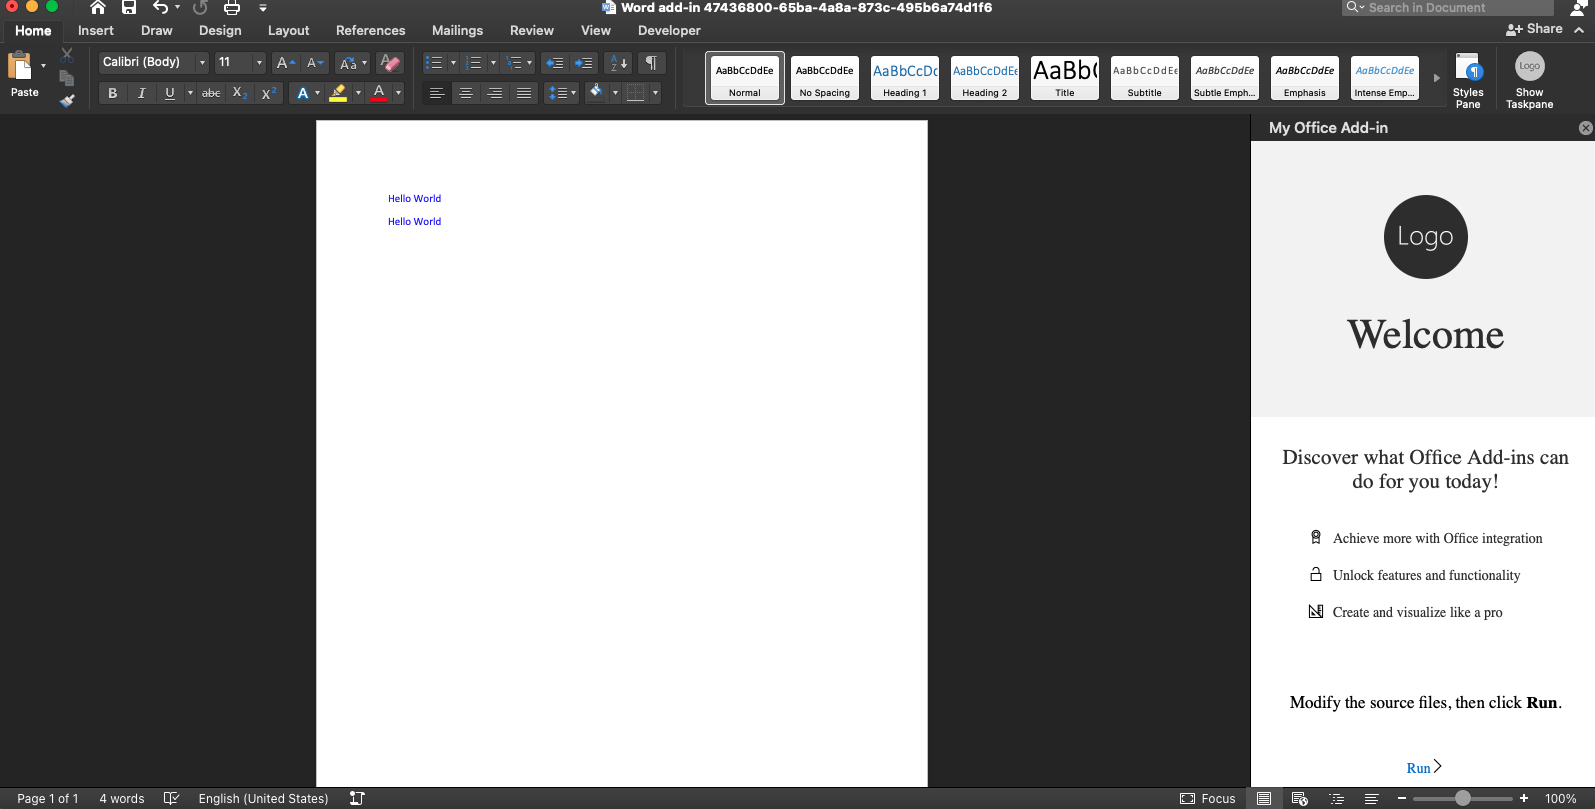
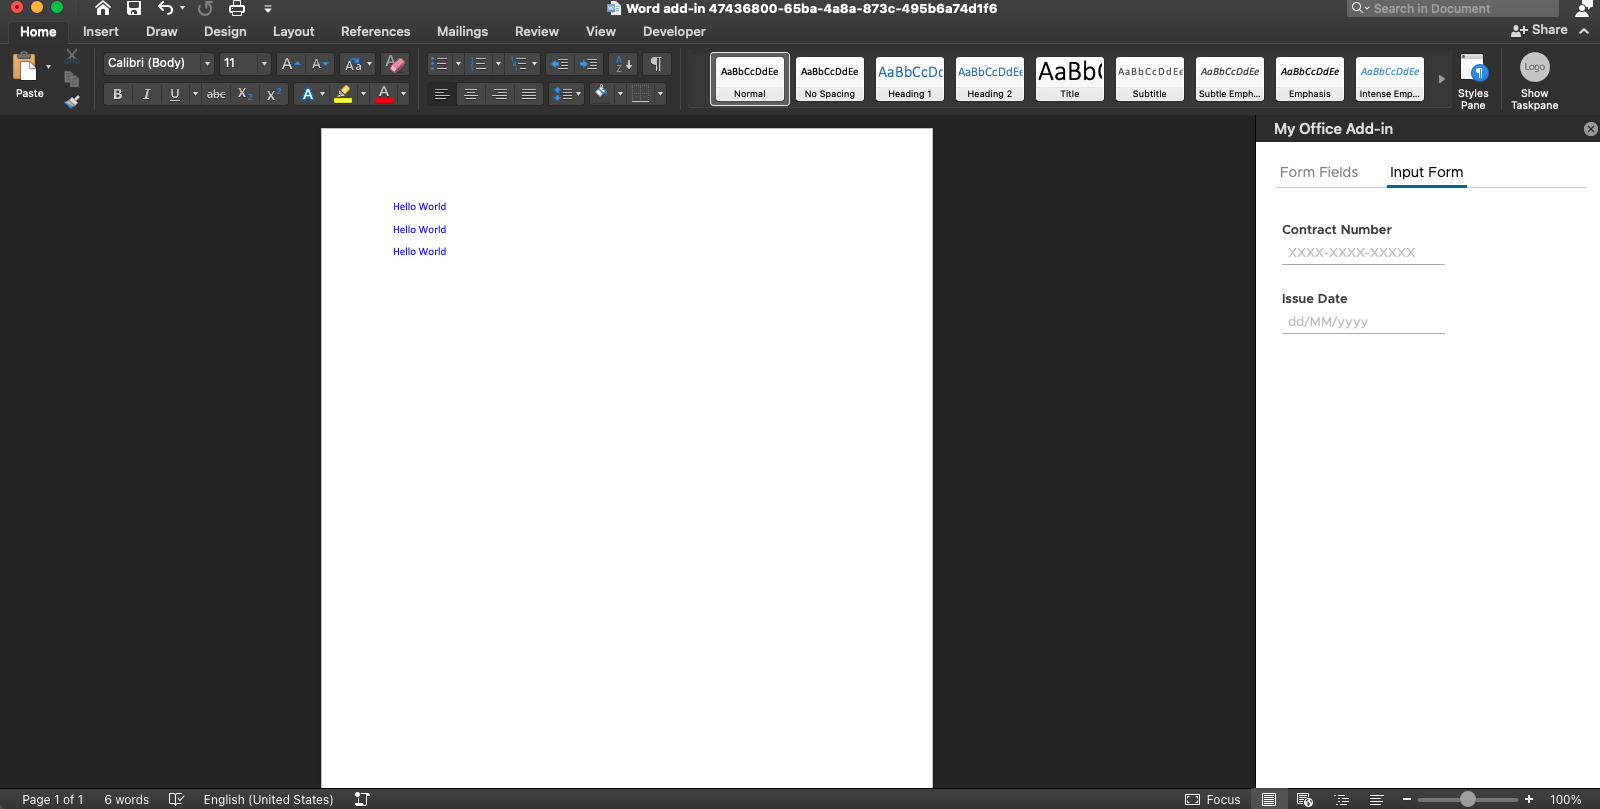
Added tab view and form fields

diff --git a/src/taskpane/app/app.component.html b/src/taskpane/app/app.component.html
@@ -1,32 +1,35 @@
 
 <main class="ms-welcome__main">
-    <clr-alert [clrAlertAppLevel]="true">
-        <clr-alert-item>
-          <span class="alert-text">
-            Congratulations, you have installed Clarity!
-          </span>
-        </clr-alert-item>
-      </clr-alert>
-    <h2 class="ms-font-xl ms-fontWeight-semilight ms-fontColor-neutralPrimary ms-u-slideUpIn20"> Discover what Office Add-ins can do for you today! </h2>
-    <ul class="ms-List ms-welcome__features ms-u-slideUpIn10">
-        <li class="ms-ListItem">
-            <i class="ms-Icon ms-Icon--Ribbon"></i>
-            <span class="ms-font-m ms-fontColor-neutralPrimary">Achieve more with Office integration</span>
-        </li>
-        <li class="ms-ListItem">
-            <i class="ms-Icon ms-Icon--Unlock"></i>
-            <span class="ms-font-m ms-fontColor-neutralPrimary">Unlock features and functionality</span>
-        </li>
-        <li class="ms-ListItem">
-            <i class="ms-Icon ms-Icon--Design"></i>
-            <span class="ms-font-m ms-fontColor-neutralPrimary">Create and visualize like a pro</span>
-        </li>
-    </ul>
-    <br />
-    <br />
-    <p class="ms-font-l">Modify the source files, then click <b>Run</b>.</p>
-    <div role="button" class="ms-welcome__action ms-Button ms-Button--hero ms-u-slideUpIn20" (click)="run()">
-        <span class="ms-Button-label">Run</span>
-        <span class="ms-Button-icon"><i class="ms-Icon ms-Icon--ChevronRight"></i></span>
-    </div>
+    <clr-tabs>
+        <clr-tab>
+          <button clrTabLink>Form Fields</button>
+          <clr-tab-content *clrIfActive>
+
+            <p class="ms-font-l">Modify the source files, then click <b>Run</b>.</p>
+            <div role="button" class="ms-welcome__action ms-Button ms-Button--hero ms-u-slideUpIn20" (click)="run()">
+                <span class="ms-Button-label">Run</span>
+                <span class="ms-Button-icon"><i class="ms-Icon ms-Icon--ChevronRight"></i></span>
+            </div>
+
+          </clr-tab-content>
+        </clr-tab>
+        <clr-tab>
+          <button clrTabLink>Input Form</button>
+          <clr-tab-content *clrIfActive="true">
+            <form clrForm>
+                <clr-input-container>
+                  <label>Contract Number</label>
+                  <input clrInput placeholder="XXXX-XXXX-XXXXX" name="contractNumber" [(ngModel)]="contractNumber" />
+                </clr-input-container>
+
+                <clr-input-container>
+                    <label>Issue Date</label>
+                    <input clrInput placeholder="dd/MM/yyyy" name="issueDate" [(ngModel)]="issueDate" />
+                  </clr-input-container>
+
+              </form>
+          </clr-tab-content>
+        </clr-tab>
+      </clr-tabs>
+
 </main>

diff --git a/src/taskpane/app/app.module.ts b/src/taskpane/app/app.module.ts
@@ -2,11 +2,12 @@ import { NgModule } from "@angular/core";
 import { BrowserModule } from "@angular/platform-browser";
 import { BrowserAnimationsModule } from '@angular/platform-browser/animations';
 import { ClarityModule } from '@clr/angular';
+import { FormsModule } from '@angular/forms';
 import AppComponent from "./app.component";
 
 @NgModule({
   declarations: [AppComponent],
-  imports: [BrowserModule, BrowserAnimationsModule, ClarityModule],
+  imports: [BrowserModule, BrowserAnimationsModule, ClarityModule, FormsModule],
   bootstrap: [AppComponent],
 })
 export default class AppModule {}

diff --git a/src/taskpane/app/app.component.ts b/src/taskpane/app/app.component.ts
@@ -12,7 +12,9 @@ const template = require("./app.component.html");
 })
 export default class AppComponent {
   welcomeMessage = "Welcome";
-
+  contractNumber = "";
+  issueDate: Date = null;
+  
   async run() {
     return Word.run(async (context) => {
       /**
